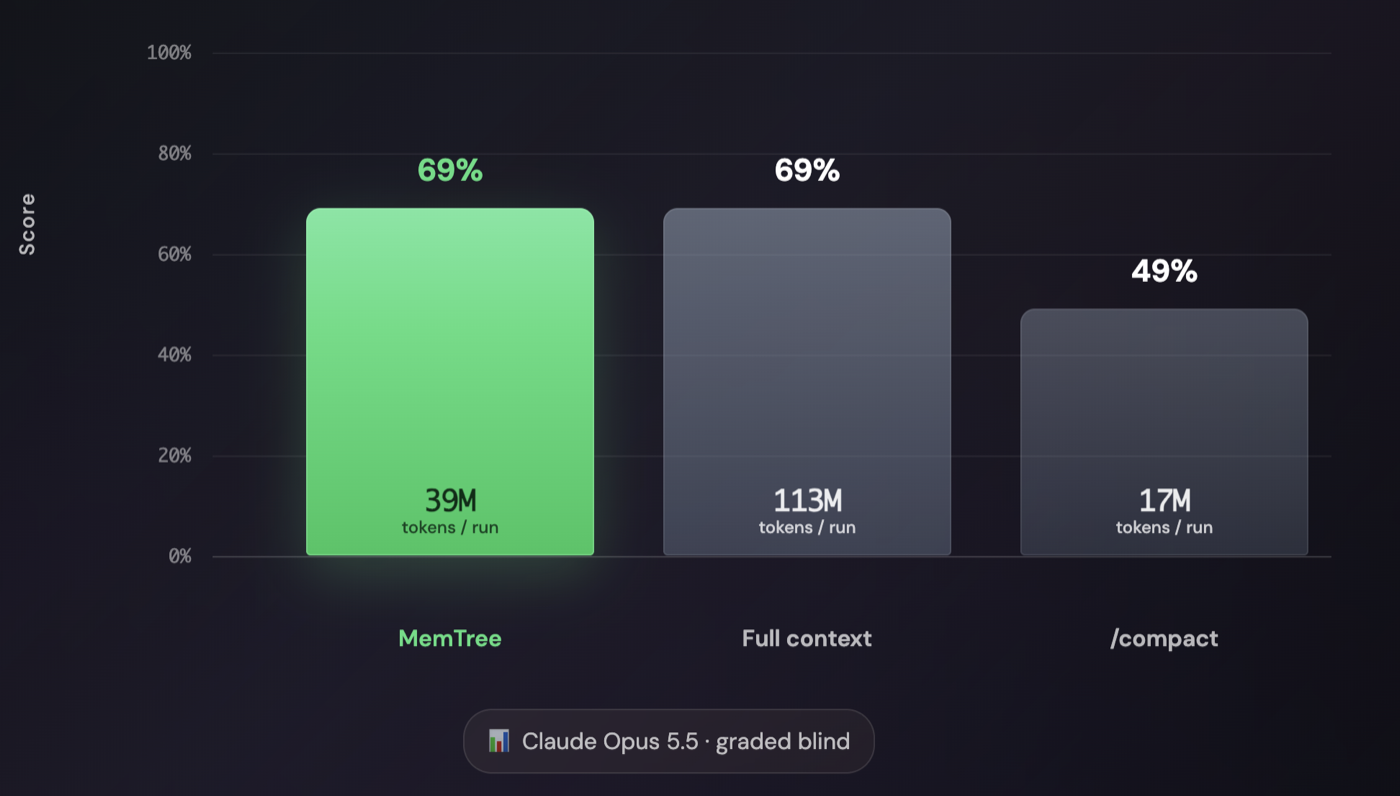
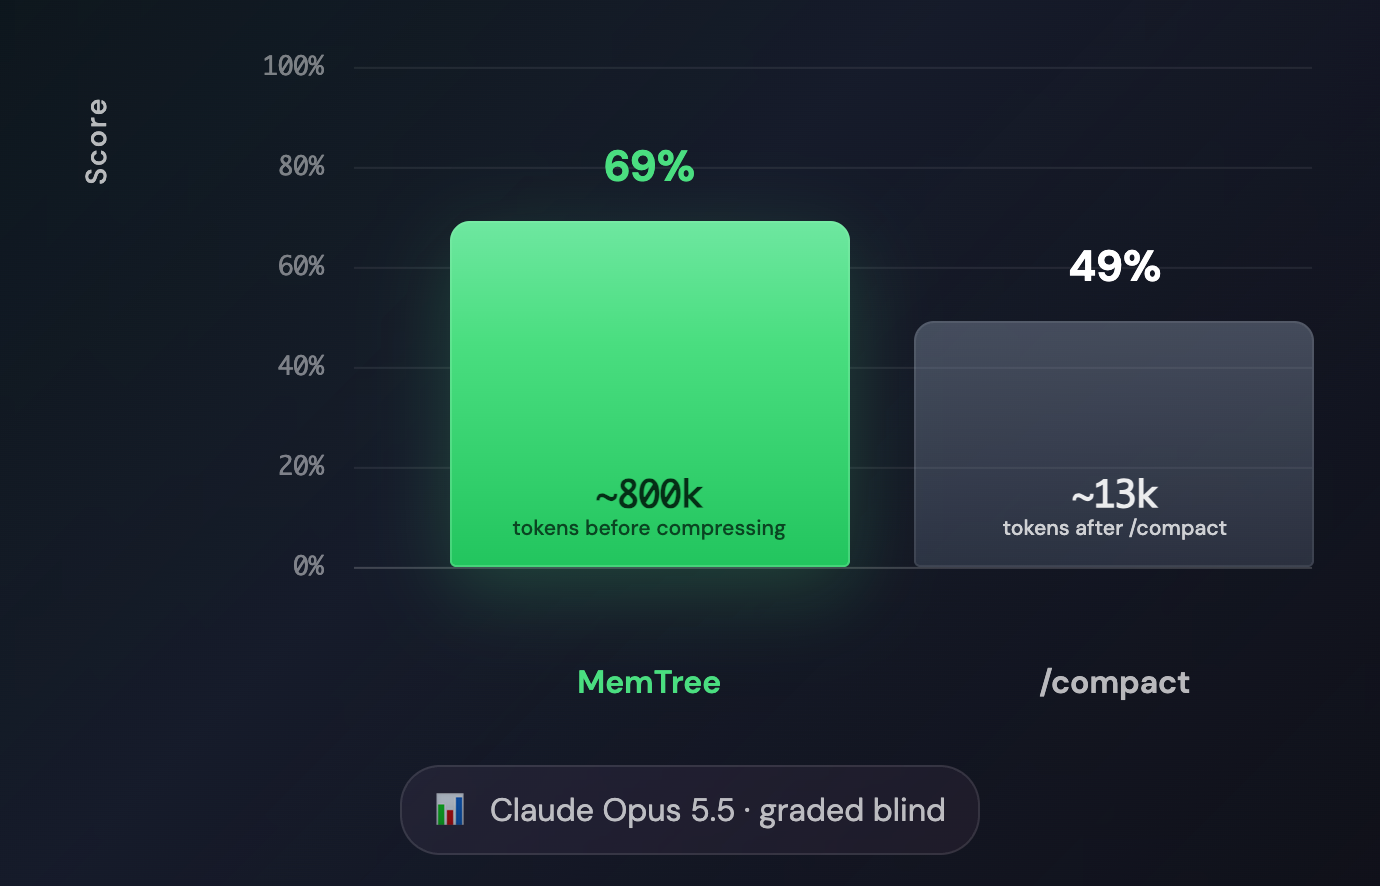
README: hero chart MemTree vs /compact (~800k before compressing), full-context parity in the caption (image regenerated from the homepage chart)

diff --git a/README.md b/README.md
@@ -5,10 +5,10 @@
 # Claude Code Infinite
 
 <p align="center">
-  <a href="#long-session-benchmark"><img width="640" alt="Long-session benchmark, Claude Opus 5.5, graded blind: MemTree 69% at 39M tokens per run, full context 69% at 113M, /compact 49% at 17M" src="https://raw.githubusercontent.com/crizCraig/claude-code-infinite/main/docs/images/benchmark-chart.png"></a>
+  <a href="#long-session-benchmark"><img width="640" alt="Long-session benchmark, Claude Opus 5.5, graded blind: MemTree 69% (at ~800k tokens before compressing), /compact 49% (~13k tokens after /compact)" src="https://raw.githubusercontent.com/crizCraig/claude-code-infinite/main/docs/images/benchmark-chart.png"></a>
 </p>
-<p align="center"><sub>Long-session benchmark on a 775k-token Claude Code session (Claude Opus 5.5, graded blind):
-MemTree matched full context at 69% with a third of the tokens; <code>/compact</code> scored 49%.
+<p align="center"><sub>Long-session benchmark (Claude Opus 5.5, graded blind): MemTree beat <code>/compact</code> by 20 points,
+running at ~800k tokens before compressing. It also matched full context on this test (69 vs 69).
 <a href="#long-session-benchmark">Full results</a></sub></p>
 
 Infinite context for Claude Code: memory for long-running agents. Claude Code Infinite indexes your Claude Code sessions with
